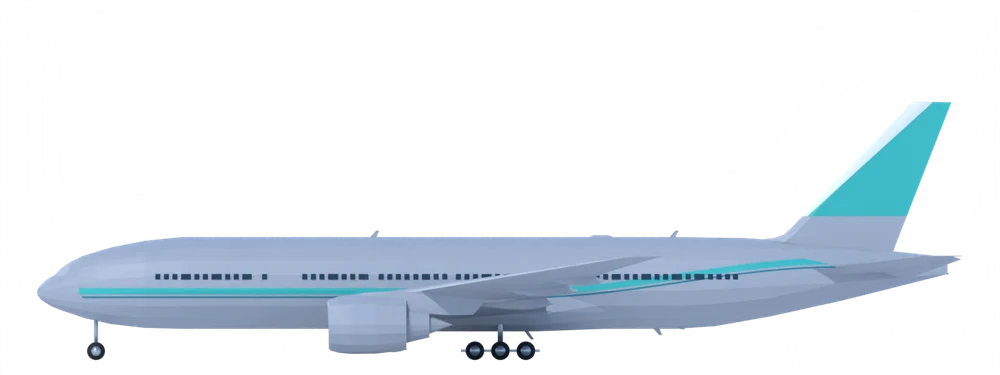
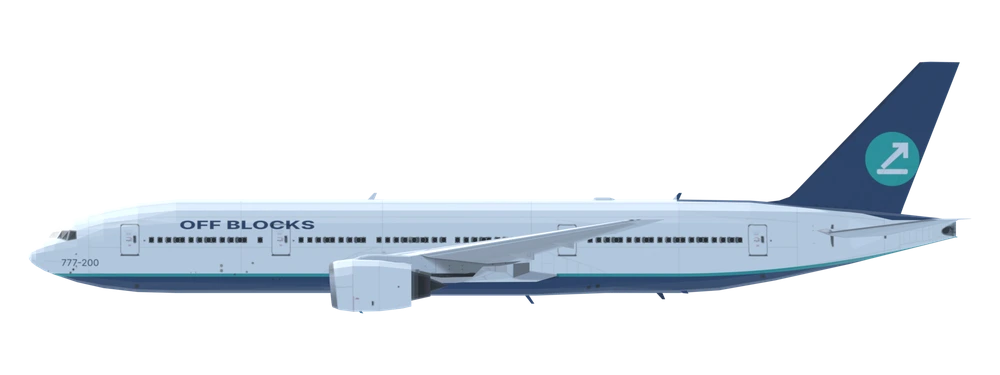
Off Blocks livery renders for 777/787 family
Claude-Session: https://claude.ai/code/session_01XrFePU9h1hCzy7p7tSHsYD

Changed region(s): [[0.031, 0.1467, 0.961, 0.968]]

diff --git a/sw.js b/sw.js
@@ -1,5 +1,5 @@
 /* Off Blocks service worker. Bump VER to push an update to installed copies. */
-const VER='ob-v39',CORE=["./", "index.html", "manifest.webmanifest", "network.json", "icons/icon-192.png", "icons/icon-512.png", "mapimg/detail.json", "mapimg/sat.webp", "mapimg/terrain.webp", "img/A19N.webp", "img/A19N_side.webp", "img/A20N.webp", "img/A20N_side.webp", "img/A21N.webp", "img/A21N_side.webp", "img/A21X.webp", "img/A21X_side.webp", "img/A306_side.webp", "img/A310.webp", "img/A310_side.webp", "img/A318.webp", "img/A318_side.webp", "img/A319.webp", "img/A319_side.webp", "img/A320.webp", "img/A320_side.webp", "img/A321.webp", "img/A321_side.webp", "img/A332_side.webp", "img/A333_side.webp", "img/A338.webp", "img/A338_side.webp", "img/A339.webp", "img/A339_side.webp", "img/A343_side.webp", "img/A346_side.webp", "img/A359_side.webp", "img/A35K.webp", "img/A35K_side.webp", "img/A388_side.webp", "img/AN24.webp", "img/AR21.webp", "img/AT42_side.webp", "img/AT76_side.webp", "img/B190.webp", "img/B37M.webp", "img/B37M_side.webp", "img/B38M.webp", "img/B38M_side.webp", "img/B39M.webp", "img/B39M_side.webp", "img/B3XM.webp", "img/B3XM_side.webp", "img/B712.webp", "img/B712_side.webp", "img/B722_side.webp", "img/B732.webp", "img/B732_side.webp", "img/B733_side.webp", "img/B734_side.webp", "img/B735.webp", "img/B735_side.webp", "img/B736_side.webp", "img/B737_side.webp", "img/B738_side.webp", "img/B739_side.webp", "img/B744_side.webp", "img/B748_side.webp", "img/B752.webp", "img/B752_side.webp", "img/B753.webp", "img/B753_side.webp", "img/B762.webp", "img/B762_side.webp", "img/B763_side.webp", "img/B764.webp", "img/B764_side.webp", "img/B772_side.webp", "img/B773.webp", "img/B773_side.webp", "img/B779.webp", "img/B779_side.webp", "img/B77L_side.webp", "img/B77W_side.webp", "img/B788_side.webp", "img/B789_side.webp", "img/B78X_side.webp", "img/BCS1_side.webp", "img/BCS3_side.webp", "img/C208.webp", "img/C208_side.webp", "img/C919.webp", "img/C919_side.webp", "img/CRJ2.webp", "img/CRJ2_side.webp", "img/CRJ7_side.webp", "img/CRJ9.webp", "img/CRJ9_side.webp", "img/CRJX_side.webp", "img/D328.webp", "img/DH8A.webp", "img/DH8A_side.webp", "img/DH8C_side.webp", "img/DH8D_side.webp", "img/DHC6_side.webp", "img/E120.webp", "img/E120_side.webp", "img/E135.webp", "img/E135_side.webp", "img/E140.webp", "img/E140_side.webp", "img/E145.webp", "img/E145_side.webp", "img/E170_side.webp", "img/E175_side.webp", "img/E190_side.webp", "img/E195.webp", "img/E195_side.webp", "img/E290_side.webp", "img/E295.webp", "img/E295_side.webp", "img/E75X.webp", "img/E75X_side.webp", "img/F100.webp", "img/F100_side.webp", "img/F50.webp", "img/F50_side.webp", "img/F70.webp", "img/F70_side.webp", "img/J41.webp", "img/L410.webp", "img/L410_side.webp", "img/MA60.webp", "img/MD83.webp", "img/MD83_side.webp", "img/MD90.webp", "img/MD90_side.webp", "img/RJ1H.webp", "img/RJ1H_side.webp", "img/RJ85.webp", "img/RJ85_side.webp", "img/SB20.webp", "img/SF34_side.webp", "img/T154.webp", "img/T154_side.webp"];
+const VER='ob-v40',CORE=["./", "index.html", "manifest.webmanifest", "network.json", "icons/icon-192.png", "icons/icon-512.png", "mapimg/detail.json", "mapimg/sat.webp", "mapimg/terrain.webp", "img/A19N.webp", "img/A19N_side.webp", "img/A20N.webp", "img/A20N_side.webp", "img/A21N.webp", "img/A21N_side.webp", "img/A21X.webp", "img/A21X_side.webp", "img/A306_side.webp", "img/A310.webp", "img/A310_side.webp", "img/A318.webp", "img/A318_side.webp", "img/A319.webp", "img/A319_side.webp", "img/A320.webp", "img/A320_side.webp", "img/A321.webp", "img/A321_side.webp", "img/A332_side.webp", "img/A333_side.webp", "img/A338.webp", "img/A338_side.webp", "img/A339.webp", "img/A339_side.webp", "img/A343_side.webp", "img/A346_side.webp", "img/A359_side.webp", "img/A35K.webp", "img/A35K_side.webp", "img/A388_side.webp", "img/AN24.webp", "img/AR21.webp", "img/AT42_side.webp", "img/AT76_side.webp", "img/B190.webp", "img/B37M.webp", "img/B37M_side.webp", "img/B38M.webp", "img/B38M_side.webp", "img/B39M.webp", "img/B39M_side.webp", "img/B3XM.webp", "img/B3XM_side.webp", "img/B712.webp", "img/B712_side.webp", "img/B722_side.webp", "img/B732.webp", "img/B732_side.webp", "img/B733_side.webp", "img/B734_side.webp", "img/B735.webp", "img/B735_side.webp", "img/B736_side.webp", "img/B737_side.webp", "img/B738_side.webp", "img/B739_side.webp", "img/B744_side.webp", "img/B748_side.webp", "img/B752.webp", "img/B752_side.webp", "img/B753.webp", "img/B753_side.webp", "img/B762.webp", "img/B762_side.webp", "img/B763_side.webp", "img/B764.webp", "img/B764_side.webp", "img/B772_side.webp", "img/B773.webp", "img/B773_side.webp", "img/B779.webp", "img/B779_side.webp", "img/B77L_side.webp", "img/B77W_side.webp", "img/B788_side.webp", "img/B789_side.webp", "img/B78X_side.webp", "img/BCS1_side.webp", "img/BCS3_side.webp", "img/C208.webp", "img/C208_side.webp", "img/C919.webp", "img/C919_side.webp", "img/CRJ2.webp", "img/CRJ2_side.webp", "img/CRJ7_side.webp", "img/CRJ9.webp", "img/CRJ9_side.webp", "img/CRJX_side.webp", "img/D328.webp", "img/DH8A.webp", "img/DH8A_side.webp", "img/DH8C_side.webp", "img/DH8D_side.webp", "img/DHC6_side.webp", "img/E120.webp", "img/E120_side.webp", "img/E135.webp", "img/E135_side.webp", "img/E140.webp", "img/E140_side.webp", "img/E145.webp", "img/E145_side.webp", "img/E170_side.webp", "img/E175_side.webp", "img/E190_side.webp", "img/E195.webp", "img/E195_side.webp", "img/E290_side.webp", "img/E295.webp", "img/E295_side.webp", "img/E75X.webp", "img/E75X_side.webp", "img/F100.webp", "img/F100_side.webp", "img/F50.webp", "img/F50_side.webp", "img/F70.webp", "img/F70_side.webp", "img/J41.webp", "img/L410.webp", "img/L410_side.webp", "img/MA60.webp", "img/MD83.webp", "img/MD83_side.webp", "img/MD90.webp", "img/MD90_side.webp", "img/RJ1H.webp", "img/RJ1H_side.webp", "img/RJ85.webp", "img/RJ85_side.webp", "img/SB20.webp", "img/SF34_side.webp", "img/T154.webp", "img/T154_side.webp"];
 self.addEventListener('install',e=>{e.waitUntil(caches.open(VER).then(c=>Promise.all(CORE.map(u=>c.add(u).catch(()=>0)))).then(()=>self.skipWaiting()))});
 self.addEventListener('activate',e=>{e.waitUntil(caches.keys().then(k=>Promise.all(k.filter(x=>x!==VER).map(x=>caches.delete(x)))).then(()=>self.clients.claim()))});
 self.addEventListener('fetch',e=>{const r=e.request,u=new URL(r.url);if(r.method!=='GET'||u.origin!==location.origin)return;

diff --git a/index.html b/index.html
@@ -180,7 +180,7 @@ const lvBase=src=>new Promise(res=>{if(LVI.base[src])return res(LVI.base[src]);c
 const PHOTOS_OFF={B39M:{src:'img/B39M_photo.webp',by:'Clemens Vasters',lic:'CC BY 2.0',lu:'https://creativecommons.org/licenses/by/2.0/',url:'https://commons.wikimedia.org/wiki/File:N7379E_-_Boeing_737_MAX_9.jpg',n:'Boeing 737 MAX 9'}};
 const PHOTOS={};
 /* types with a finished Off Blocks livery render: shown as-is, no repaint */
-const LVNAT={B38M:1,B39M:1,A318:1,A319:1,A320:1,A321:1,A19N:1,A20N:1,A21N:1,A21X:1,A332:1,A333:1,A338:1,A339:1,A343:1,A346:1,A359:1,A35K:1};
+const LVNAT={B38M:1,B39M:1,A318:1,A319:1,A320:1,A321:1,A19N:1,A20N:1,A21N:1,A21X:1,A332:1,A333:1,A338:1,A339:1,A343:1,A346:1,A359:1,A35K:1,B772:1,B773:1,B77L:1,B77W:1,B777:1,B779:1,B788:1,B789:1,B78X:1,B787:1};
 const lvSrc=(c,v,l)=>LVI.cache[lvKey(c,v,l)]||'img/'+c+(v==='s'?'_side':'')+'.webp';
 /* natural white: the renders come out blue-grey, so lift and neutralise every light, low-saturation pixel (windows, gear and dark detail are left alone) */
 function lvRefL(d,A){const a=[];for(let i=0;i<A.length;i+=7){if(!A[i])continue;const j=i*4,r=d[j],g=d[j+1],b=d[j+2],mx=Math.max(r,g,b),lu=.3*r+.59*g+.11*b;if(lu>110&&(mx-Math.min(r,g,b))/(mx||1)<.36)a.push(lu)}if(!a.length)return 190;a.sort((p,q)=>p-q);return a[a.length>>1]}
